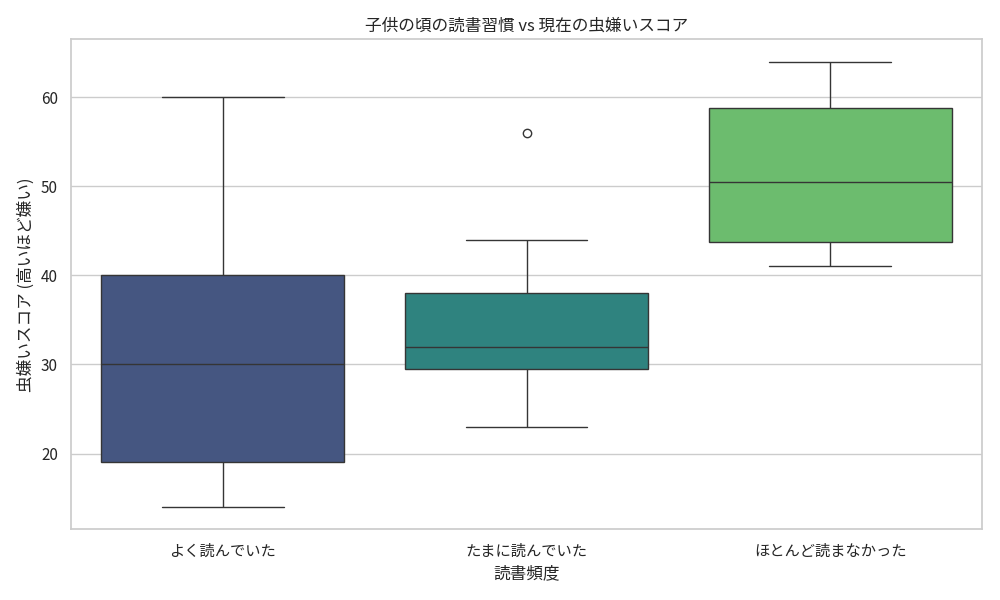
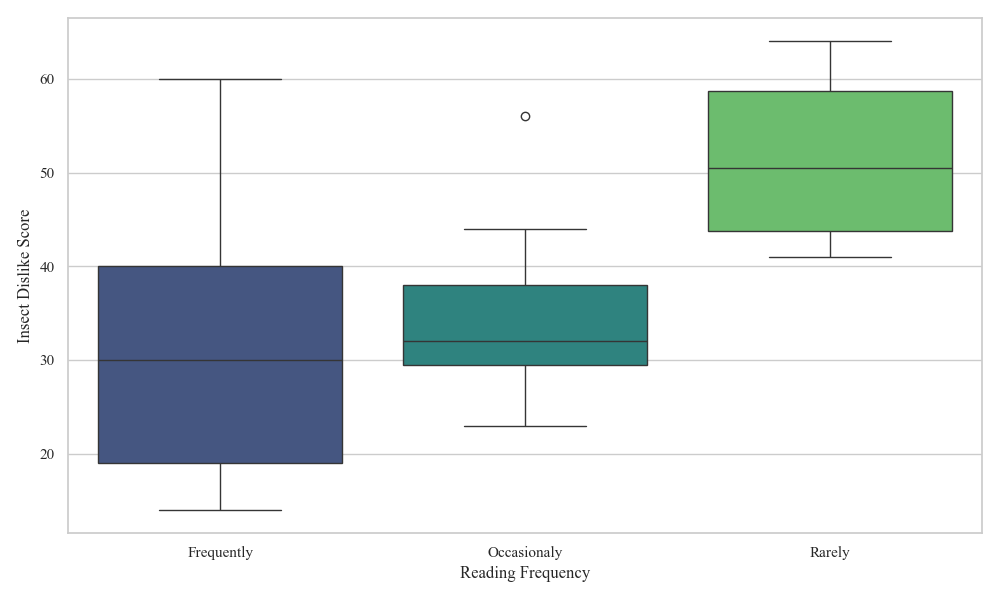
英語に変更

diff --git a/script.py b/script.py
@@ -130,77 +130,102 @@ def analyze_and_visualize(file_path):
 
     # --- 可視化パート ---
     
-    # フォント設定（日本語フォントを自動探索）
-    jp_font_path = None
-    try:
-        fonts = fm.findSystemFonts()
-        target_fonts = ['Meiryo', 'Hiragino', 'YuGothic', 'NotoSansCJK', 'Takao', 'IPAGothic']
-        for font in fonts:
-            if any(t in font for t in target_fonts):
-                jp_font_path = font
-                break
-        if jp_font_path:
-            fp = fm.FontProperties(fname=jp_font_path)
-            plt.rcParams['font.family'] = fp.get_name()
-            print(f"ℹ 日本語フォント設定: {fp.get_name()}")
-        else:
-            print("⚠ 日本語フォントが見つかりません。英語表記になります。")
-    except:
-        pass
-
-    sns.set(style="whitegrid", font=plt.rcParams['font.family'])
+    # フォント設定（Times New Romanに固定）
+    plt.rcParams['font.family'] = 'Times New Roman'
+    print(f"ℹ フォント設定: Times New Roman")
+    
+    sns.set(style="whitegrid", font='Times New Roman')
 
     # 図1-1: 自然接触頻度とスコアの箱ひげ図
+    df_plot = df_clean.copy()
+    df_plot['Nature_Contact'] = df_plot['Nature_Contact'].map({
+        'よく遊んでいた': 'Frequently',
+        'たまに遊んでいた': 'Occasionaly',
+        'ほとんど遊ばなかった': 'Rarely'
+    })
+    order_nature = ['Frequently', 'Occasionaly', 'Rarely']
     plt.figure(figsize=(10, 6))
-    order_nature = ['よく遊んでいた', 'たまに遊んでいた', 'ほとんど遊ばなかった']
-    sns.boxplot(x='Nature_Contact', y='Insect_Dislike_Score', data=df_clean, order=order_nature, palette='viridis')
-    plt.title('子供の頃の自然接触頻度 vs 現在の虫嫌いスコア')
-    plt.ylabel('虫嫌いスコア (高いほど嫌い)')
-    plt.xlabel('自然(山・川・海・田んぼ)での遊び頻度')
+    sns.boxplot(x='Nature_Contact', y='Insect_Dislike_Score', data=df_plot, order=order_nature, palette='viridis')
+    # plt.title('Nature Contact Frequency vs Insect Dislike Score', fontsize=14, fontname='Times New Roman')
+    plt.ylabel('Insect Dislike Score', fontsize=12, fontname='Times New Roman')
+    plt.xlabel('Outdoor Play Frequency in Childhood', fontsize=12, fontname='Times New Roman')
+    plt.xticks(fontname='Times New Roman')
+    plt.yticks(fontname='Times New Roman')
     plt.tight_layout()
     plt.savefig('1-1_boxplot_nature_vs_score.png')
     print("✅ 図1-1 保存完了: 1-1_boxplot_nature_vs_score.png")
 
     # 図1-2: 読書習慣とスコアの箱ひげ図
+    df_plot = df_clean.copy()
+    df_plot['Reading_Habit'] = df_plot['Reading_Habit'].map({
+        'よく読んでいた': 'Frequently',
+        'たまに読んでいた': 'Occasionaly',
+        'ほとんど読まなかった': 'Rarely'
+    })
+    order_reading = ['Frequently', 'Occasionaly', 'Rarely']
     plt.figure(figsize=(10, 6))
-    order_reading = ['よく読んでいた', 'たまに読んでいた', 'ほとんど読まなかった']
-    sns.boxplot(x='Reading_Habit', y='Insect_Dislike_Score', data=df_clean, order=order_reading, palette='viridis')
-    plt.title('子供の頃の読書習慣 vs 現在の虫嫌いスコア')
-    plt.ylabel('虫嫌いスコア (高いほど嫌い)')
-    plt.xlabel('読書頻度')
+    sns.boxplot(x='Reading_Habit', y='Insect_Dislike_Score', data=df_plot, order=order_reading, palette='viridis')
+    # plt.title('Reading Habit in Childhood vs Insect Dislike Score', fontsize=14, fontname='Times New Roman')
+    plt.ylabel('Insect Dislike Score', fontsize=12, fontname='Times New Roman')
+    plt.xlabel('Reading Frequency', fontsize=12, fontname='Times New Roman')
+    plt.xticks(fontname='Times New Roman')
+    plt.yticks(fontname='Times New Roman')
     plt.tight_layout()
     plt.savefig('1-2_boxplot_reading_vs_score.png')
     print("✅ 図1-2 保存完了: 1-2_boxplot_reading_vs_score.png")
 
     # 図1-3: 虫本読書頻度とスコアの箱ひげ図
+    df_plot = df_clean.copy()
+    df_plot['Insect_Book_Reading'] = df_plot['Insect_Book_Reading'].map({
+        'よく読んでいた': 'Frequently',
+        'たまに読んでいた': 'Occasionaly',
+        'ほとんど読まなかった': 'Rarely'
+    })
+    order_insect_book = ['Frequently', 'Occasionaly', 'Rarely']
     plt.figure(figsize=(10, 6))
-    order_insect_book = ['よく読んでいた', 'たまに読んでいた', 'ほとんど読まなかった']
-    sns.boxplot(x='Insect_Book_Reading', y='Insect_Dislike_Score', data=df_clean, order=order_insect_book, palette='viridis')
-    plt.title('子供の頃の虫本読書頻度 vs 現在の虫嫌いスコア')
-    plt.ylabel('虫嫌いスコア (高いほど嫌い)')
-    plt.xlabel('虫の本の読書頻度')
+    sns.boxplot(x='Insect_Book_Reading', y='Insect_Dislike_Score', data=df_plot, order=order_insect_book, palette='viridis')
+    # plt.title('Insect Book Reading Frequency vs Insect Dislike Score', fontsize=14, fontname='Times New Roman')
+    plt.ylabel('Insect Dislike Score', fontsize=12, fontname='Times New Roman')
+    plt.xlabel('Insect-Related Book Reading Frequency', fontsize=12, fontname='Times New Roman')
+    plt.xticks(fontname='Times New Roman')
+    plt.yticks(fontname='Times New Roman')
     plt.tight_layout()
     plt.savefig('1-3_boxplot_insect_book_vs_score.png')
     print("✅ 図1-3 保存完了: 1-3_boxplot_insect_book_vs_score.png")
 
     # 図1-4: 性別とスコアの箱ひげ図
+    df_plot = df_clean.copy()
+    df_plot['Gender'] = df_plot['Gender'].map({
+        '男性': 'Male',
+        '女性': 'Female'
+    })
     plt.figure(figsize=(10, 6))
-    sns.boxplot(x='Gender', y='Insect_Dislike_Score', data=df_clean, order=['男性', '女性'], palette='viridis')
-    plt.title('性別 vs 現在の虫嫌いスコア')
-    plt.ylabel('虫嫌いスコア (高いほど嫌い)')
-    plt.xlabel('性別')
+    sns.boxplot(x='Gender', y='Insect_Dislike_Score', data=df_plot, order=['Male', 'Female'], palette='viridis')
+    # plt.title('Gender vs Insect Dislike Score', fontsize=14, fontname='Times New Roman')
+    plt.ylabel('Insect Dislike Score', fontsize=12, fontname='Times New Roman')
+    plt.xlabel('Gender', fontsize=12, fontname='Times New Roman')
+    plt.xticks(fontname='Times New Roman')
+    plt.yticks(fontname='Times New Roman')
     plt.tight_layout()
     plt.savefig('1-4_boxplot_gender_vs_score.png')
     print("✅ 図1-4 保存完了: 1-4_boxplot_gender_vs_score.png")
 
     # 図1-5: 居住地域とスコアの箱ひげ図
+    df_plot = df_clean.copy()
+    df_plot['Residence_Area'] = df_plot['Residence_Area'].map({
+        '農村・漁村': 'Rural',
+        '地方中心市街地': 'Regional City',
+        '郊外住宅地・団地': 'Suburban',
+        '都心・都市部': 'Urban'
+    })
+    order_area = ['Rural', 'Regional City', 'Suburban', 'Urban']
     plt.figure(figsize=(12, 6))
-    order_area = ['農村・漁村', '地方中心市街地', '郊外住宅地・団地', '都心・都市部']
-    sns.boxplot(x='Residence_Area', y='Insect_Dislike_Score', data=df_clean, order=order_area, palette='viridis')
-    plt.title('子供の頃の居住地域 vs 現在の虫嫌いスコア')
-    plt.ylabel('虫嫌いスコア (高いほど嫌い)')
-    plt.xlabel('居住地域')
-    plt.xticks(rotation=15)
+    sns.boxplot(x='Residence_Area', y='Insect_Dislike_Score', data=df_plot, order=order_area, palette='viridis')
+    # plt.title('Childhood Residence Area vs Insect Dislike Score', fontsize=14, fontname='Times New Roman')
+    plt.ylabel('Insect Dislike Score', fontsize=12, fontname='Times New Roman')
+    plt.xlabel('Residence Area Type', fontsize=12, fontname='Times New Roman')
+    plt.xticks(rotation=15, fontname='Times New Roman')
+    plt.yticks(fontname='Times New Roman')
     plt.tight_layout()
     plt.savefig('1-5_boxplot_residence_vs_score.png')
     print("✅ 図1-5 保存完了: 1-5_boxplot_residence_vs_score.png")
@@ -208,12 +233,15 @@ def analyze_and_visualize(file_path):
     # 図2: 相関行列のヒートマップ
     plt.figure(figsize=(11, 9))
     corr_cols = ['Insect_Dislike_Score', 'Nature_Contact_Num', 'Reading_Habit_Num', 'Insect_Book_Reading_Num', 'Gender_Num', 'Residence_Area_Num']
-    corr_labels = ['虫嫌いスコア', '自然接触', '読書習慣', '虫本読書', '性別(女性=1)', '居住地域(都市化)']
+    corr_labels = ['Insect Dislike', 'Nature Contact', 'Reading Habit', 'Insect Book', 'Gender (F=1)', 'Urban Residence']
     corr_mat = df_clean[corr_cols].corr(method='spearman')
     corr_mat.index = corr_labels
     corr_mat.columns = corr_labels
-    sns.heatmap(corr_mat, annot=True, cmap='coolwarm', vmin=-1, vmax=1, fmt='.2f', square=True)
-    plt.title('要因間の相関行列（スピアマンの順位相関）')
+    sns.heatmap(corr_mat, annot=True, cmap='coolwarm', vmin=-1, vmax=1, fmt='.2f', square=True, 
+                cbar_kws={'label': 'Spearman Correlation'}, annot_kws={'fontname': 'Times New Roman'})
+    # plt.title('Correlation Matrix (Spearman Rank Correlation)', fontsize=14, fontname='Times New Roman')
+    plt.xticks(fontname='Times New Roman')
+    plt.yticks(fontname='Times New Roman')
     plt.tight_layout()
     plt.savefig('2_heatmap_correlation.png')
     print("✅ 図2 保存完了: 2_heatmap_correlation.png")
@@ -221,11 +249,15 @@ def analyze_and_visualize(file_path):
     # 図3: 回帰係数の棒グラフ（影響度の可視化）
     plt.figure(figsize=(10, 6))
     coefs = model.params.drop('const')
+    coef_labels = ['Nature Contact', 'Reading Habit', 'Insect Book', 'Gender (F=1)', 'Urban Residence']
+    coefs.index = coef_labels
     colors = ['blue' if c < 0 else 'red' for c in coefs]
     coefs.plot(kind='barh', color=colors)
     plt.axvline(0, color='black', linewidth=0.8)
-    plt.title('各要因が虫嫌いスコアに与える影響（標準化偏回帰係数）')
-    plt.xlabel('影響度 (左に伸びるほど虫嫌いを軽減)')
+    # plt.title('Impact of Factors on Insect Dislike (Standardized Regression Coefficients)', fontsize=14, fontname='Times New Roman')
+    plt.xlabel('Coefficient (negative = reduces insect dislike)', fontsize=12, fontname='Times New Roman')
+    plt.xticks(fontname='Times New Roman')
+    plt.yticks(fontname='Times New Roman')
     plt.tight_layout()
     plt.savefig('3_regression_coefficients.png')
     print("✅ 図3 保存完了: 3_regression_coefficients.png")
